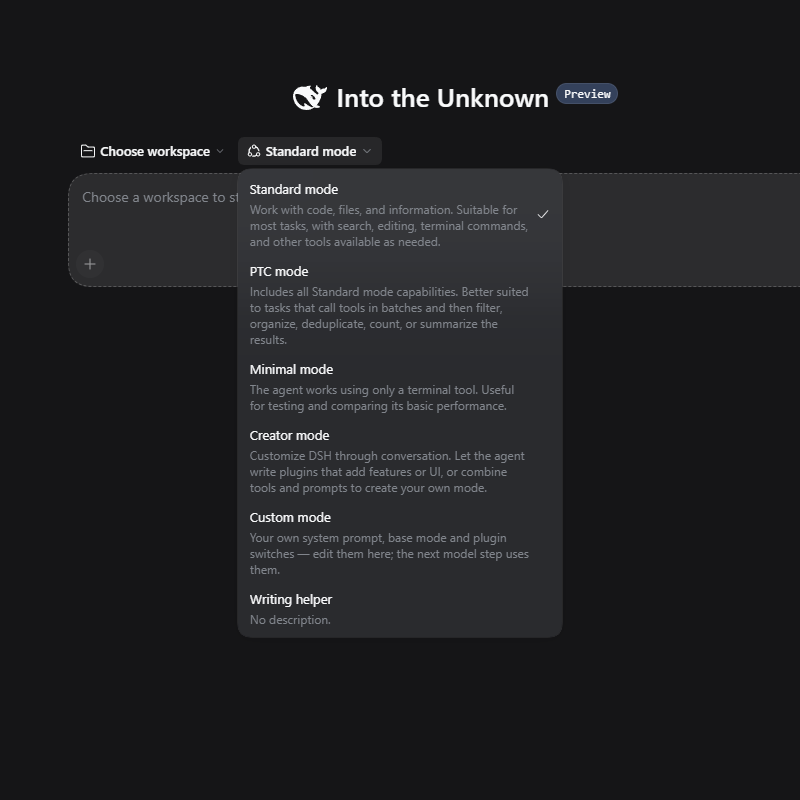
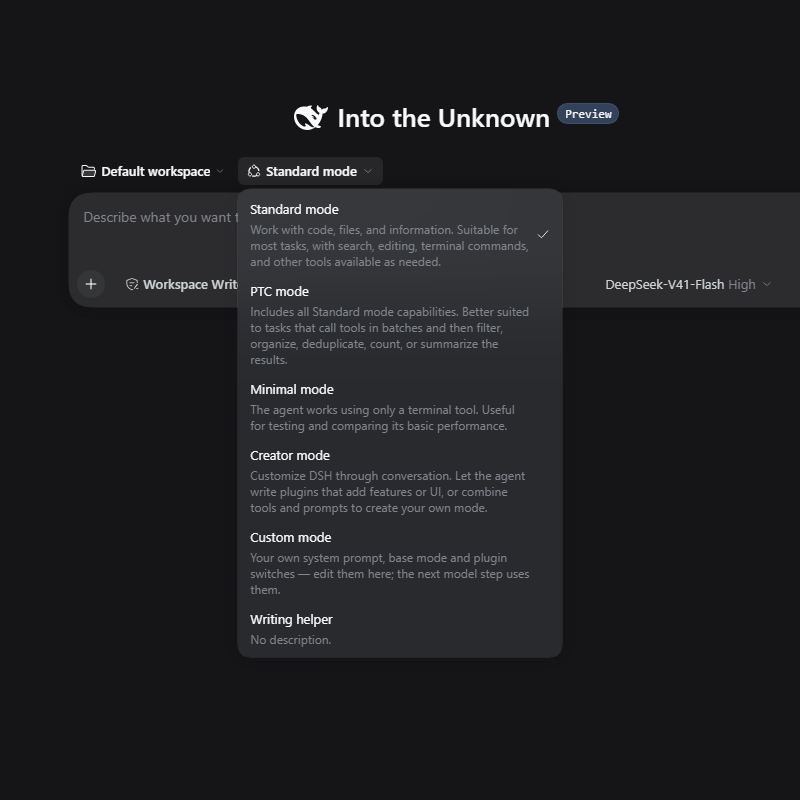
feat: 重画头图并按 800x800 重拍示例图
头图不再写版本号。五张示例图在真实 dsh 页面上重拍，README 用居中的 2x2 加一张独立视图。

Changed region(s): [[0.0938, 0.0938, 1.0, 0.8125], [0.75, 0.3438, 0.9375, 0.375], [0.0938, 0.3438, 0.125, 0.375]]

diff --git a/docs/images/header.html b/docs/images/header.html
@@ -1,55 +1,110 @@
-<!doctype html><html><head><meta charset="utf-8"><style>
-  * { margin:0; padding:0; box-sizing:border-box; }
-  html, body { width:1280px; height:640px; }
-  body { background:#0a0e14; font-family:"JetBrains Mono","Cascadia Mono",Consolas,"DejaVu Sans Mono",monospace;
-         color:#e6edf3; position:relative; overflow:hidden; }
-  .grid { position:absolute; inset:0;
-    background-image:linear-gradient(rgba(255,255,255,.035) 1px,transparent 1px),
-                     linear-gradient(90deg,rgba(255,255,255,.035) 1px,transparent 1px);
-    background-size:48px 48px; }
-  .glow { position:absolute; width:1100px; height:1100px; left:-300px; top:-560px;
-    background:radial-gradient(circle,rgba(77,107,254,.22) 0%,rgba(77,107,254,0) 62%); }
-  .glow2 { position:absolute; width:900px; height:900px; right:-320px; bottom:-520px;
-    background:radial-gradient(circle,rgba(0,229,255,.14) 0%,rgba(0,229,255,0) 62%); }
-  .wrap { position:relative; height:100%; padding:64px 80px 56px; display:flex; flex-direction:column; }
-  .title { font-size:92px; font-weight:700; letter-spacing:-2.5px; line-height:1; }
-  .title .dash { color:#4d6bfe; }
-  .cursor { display:inline-block; width:34px; height:11px; background:#4d6bfe; margin-left:14px; vertical-align:12px; }
-  .sub { color:#9aa4b2; font-size:23px; line-height:1.55; margin-top:22px; max-width:1010px; }
-  .sub b { color:#e6edf3; }
-  .strip { display:flex; gap:14px; margin-top:44px; }
-  .row { display:flex; align-items:center; gap:14px; border:1px solid #1c2532; background:#0c1119;
-         border-radius:11px; padding:15px 20px; font-size:17px; color:#8b95a3; }
-  .row .on { color:#e6edf3; }
-  .sw { width:42px; height:23px; border-radius:999px; background:#212a36; position:relative; flex:none; }
-  .sw.on { background:#1f6feb; }
-  .sw::after { content:""; position:absolute; top:3px; left:3px; width:17px; height:17px; border-radius:50%; background:#0a0e14; }
-  .sw.on::after { left:22px; background:#eaf2ff; }
-  .foot { margin-top:auto; display:flex; align-items:center; justify-content:space-between; gap:36px; }
-  .chips { display:flex; gap:13px; }
-  .chip { border:1px solid #222b38; background:#0d131c; color:#9aa4b2; font-size:16px; padding:9px 15px; border-radius:8px; white-space:nowrap; }
-  .chip b { color:#e6edf3; font-weight:600; }
-  .term { border:1px solid #1c2532; background:#0c1119; border-radius:11px; padding:16px 20px; font-size:17px; color:#9aa4b2; white-space:nowrap; }
-  .term .p { color:#4d6bfe; } .term .c { color:#e6edf3; }
-</style></head><body>
-  <div class="grid"></div><div class="glow"></div><div class="glow2"></div>
-  <div class="wrap">
-    <div class="title">dsh<span class="dash">-</span>custom<span class="dash">-</span>mode<span class="cursor"></span></div>
-    <div class="sub">A settings page for <b>dsh</b> agent modes — an editable system prompt that applies on the next
-    model step, per-row plugin switches, several assistants side by side.</div>
-    <div class="strip">
-      <div class="row"><span class="sw on"></span><span class="on">identity (system prompt)</span></div>
-      <div class="row"><span class="sw on"></span><span class="on">custom_prompt tool</span></div>
-      <div class="row"><span class="sw"></span>shell (pwsh)</div>
+<!doctype html>
+<html>
+<head>
+<meta charset="utf-8">
+<style>
+  * { margin: 0; padding: 0; box-sizing: border-box; }
+  html, body { width: 1280px; height: 640px; overflow: hidden; }
+  body {
+    background: #070b12;
+    color: #e7edf5;
+    font-family: "Segoe UI", "PingFang SC", "Microsoft YaHei", sans-serif;
+  }
+  .stage { position: relative; width: 1280px; height: 640px; }
+  .grid {
+    position: absolute; inset: 0;
+    background-image:
+      linear-gradient(rgba(255,255,255,.028) 1px, transparent 1px),
+      linear-gradient(90deg, rgba(255,255,255,.028) 1px, transparent 1px);
+    background-size: 64px 64px;
+    mask-image: radial-gradient(ellipse at 30% 50%, #000 20%, transparent 72%);
+  }
+  .wash {
+    position: absolute; width: 720px; height: 720px; left: -180px; top: -220px;
+    background: radial-gradient(circle, rgba(77,107,254,.20) 0%, rgba(77,107,254,0) 68%);
+  }
+  .rule {
+    position: absolute; left: 72px; top: 88px; bottom: 88px; width: 1px;
+    background: linear-gradient(rgba(77,107,254,0), rgba(77,107,254,.85), rgba(77,107,254,0));
+  }
+  .copy {
+    position: absolute; left: 104px; top: 0; bottom: 0; width: 620px;
+    display: flex; flex-direction: column; justify-content: center;
+  }
+  .kicker {
+    font-size: 13px; letter-spacing: .22em; text-transform: uppercase;
+    color: #8ea0c8; font-weight: 600;
+  }
+  h1 {
+    margin-top: 18px; font-size: 64px; line-height: .95; font-weight: 650;
+    letter-spacing: -1.8px;
+  }
+  h1 span { color: #4d6bfe; }
+  .lead {
+    margin-top: 22px; max-width: 520px;
+    font-size: 20px; line-height: 1.45; color: #b7c0ce; font-weight: 400;
+  }
+  .lead b { color: #f2f5f8; font-weight: 600; }
+  .cmd {
+    margin-top: 32px; align-self: flex-start;
+    border: 1px solid #243044; background: #0c121c;
+    border-radius: 10px; padding: 12px 16px;
+    font-family: "Cascadia Mono", Consolas, monospace;
+    font-size: 15px; color: #d5dbe3;
+  }
+  .cmd i { color: #4d6bfe; font-style: normal; margin-right: 8px; }
+  .card {
+    position: absolute; right: 72px; top: 78px; width: 420px; height: 484px;
+    border: 1px solid #2a3548; border-radius: 16px;
+    background: #0e141e;
+    box-shadow: 0 24px 60px rgba(0,0,0,.35);
+    padding: 22px 22px 18px;
+    display: flex; flex-direction: column;
+  }
+  .card h2 { font-size: 13px; font-weight: 600; letter-spacing: .04em; color: #9aa6b8; }
+  .prompt {
+    margin-top: 12px; flex: 1;
+    border: 1px solid #243044; border-radius: 10px;
+    background: #0a1018; padding: 14px 14px;
+    font-family: "Cascadia Mono", Consolas, monospace;
+    font-size: 13px; line-height: 1.55; color: #d7dee8;
+  }
+  .prompt em { color: #7f8da3; font-style: normal; }
+  .rows { margin-top: 14px; display: flex; flex-direction: column; gap: 8px; }
+  .row {
+    display: flex; align-items: center; justify-content: space-between;
+    height: 36px; padding: 0 2px; border-bottom: 1px solid #1c2636;
+    font-size: 13px; color: #d5dce6;
+  }
+  .sw { width: 36px; height: 20px; border-radius: 999px; background: #4d6bfe; position: relative; }
+  .sw::after {
+    content: ""; position: absolute; top: 2px; left: 18px;
+    width: 16px; height: 16px; border-radius: 50%; background: #f4f7fb;
+  }
+  .sw.off { background: #2a3344; }
+  .sw.off::after { left: 2px; background: #9aa6b8; }
+</style>
+</head>
+<body>
+  <div class="stage">
+    <div class="grid"></div>
+    <div class="wash"></div>
+    <div class="rule"></div>
+    <div class="copy">
+      <div class="kicker">DeepSeek Harness</div>
+      <h1>dsh<span>-</span>custom<span>-</span>mode</h1>
+      <p class="lead">A settings page for agent modes. Edit the <b>system prompt</b>. It applies on the next step. Keep several assistants side by side.</p>
+      <div class="cmd"><i>$</i>dsh plugin add dsh-custom-mode</div>
     </div>
-    <div class="foot">
-      <div class="chips">
-        <div class="chip">dsh <b>&ge; 0.1.5-rc.2</b></div>
-        <div class="chip">npm <b>latest</b></div>
-        <div class="chip"><b>MIT</b></div>
-        <div class="chip">Web <b>settings page</b></div>
+    <aside class="card">
+      <h2>System prompt</h2>
+      <div class="prompt">You are a careful coding agent.<br><em>{{model}}</em> · <em>{{cwd}}</em><br><br>Follow the project instructions.<br>Ask before rewriting the prompt.</div>
+      <div class="rows">
+        <div class="row">Identity <span class="sw"></span></div>
+        <div class="row">File access <span class="sw"></span></div>
+        <div class="row">Shell <span class="sw off"></span></div>
       </div>
-      <div class="term"><span class="p">$</span> <span class="c">dsh plugin add dsh-custom-mode</span></div>
-    </div>
+    </aside>
   </div>
-</body></html>
+</body>
+</html>

diff --git a/README.zh.md b/README.zh.md
@@ -31,22 +31,25 @@ base mode / plugin switches / multi-assistant / multi-persona。
 
 官方四个模式（`standard` / `ptc` / `minimal` / `cordis`）不受影响。
 
-|  |  |
-| --- | --- |
-| ![模式名称与基础模式](https://raw.githubusercontent.com/BOWLUNA/dsh-custom-mode/main/docs/images/01-mode-switch.png) | ![插件开关](https://raw.githubusercontent.com/BOWLUNA/dsh-custom-mode/main/docs/images/02-plugin-switches.png) |
-| ![系统提示词](https://raw.githubusercontent.com/BOWLUNA/dsh-custom-mode/main/docs/images/03-system-prompt.png) | ![模式选择器](https://raw.githubusercontent.com/BOWLUNA/dsh-custom-mode/main/docs/images/04-preset-picker.png) |
+<p align="center">
+<img src="https://raw.githubusercontent.com/BOWLUNA/dsh-custom-mode/main/docs/images/01-mode-switch.png" width="360" alt="基础模式与插件开关">
+<img src="https://raw.githubusercontent.com/BOWLUNA/dsh-custom-mode/main/docs/images/02-plugin-switches.png" width="360" alt="插件开关"><br>
+<img src="https://raw.githubusercontent.com/BOWLUNA/dsh-custom-mode/main/docs/images/03-system-prompt.png" width="360" alt="系统提示词">
+<img src="https://raw.githubusercontent.com/BOWLUNA/dsh-custom-mode/main/docs/images/04-preset-picker.png" width="360" alt="模式选择器">
+</p>
 
-多助手管理器（裁到它自己那一段）。五张图都是英文、**统一 800x800**，由一个**没有会话记录的**一次性
-`DSH_HOME` 拍出，脚本是 `tools/screenshots/shoot-fresh.mjs`（渲染后的页面由 `tools/browser-verify.mjs` 校验）：
+<p align="center">
+<img src="https://raw.githubusercontent.com/BOWLUNA/dsh-custom-mode/main/docs/images/05-assistant-manager.png" width="360" alt="助手">
+</p>
 
-![助手管理器](https://raw.githubusercontent.com/BOWLUNA/dsh-custom-mode/main/docs/images/05-assistant-manager.png)
+上面四张是一组 2×2。助手管理器单独居中。五张都是英文，文件都是 800×800，用一个没有会话记录的一次性 `DSH_HOME` 拍出。
 
 ## 安装
 
 一条命令装完——设置页插件，以及它在首次激活时自动播种的 preset：
 
 ```sh
-dsh plugin --profile web add dsh-custom-mode@1.12.1   # 钉版本才能确定拿到这一版
+dsh plugin --profile web add dsh-custom-mode@1.12.2   # 钉版本才能确定拿到这一版
 # 不带版本号会受 pnpm 的发布冷却期影响（`minimumReleaseAge`，默认一天）：发布后数小时内按名安装
 # 可能**静默装到旧版** —— 实测 1.3.0 发布 38 分钟后按名安装装到了 1.0.3。用 profile 里的
 # `npm ls dsh-custom-mode` 核对实际装到的版本，或像上面那样钉版本。
@@ -65,7 +68,7 @@ dsh `0.1.6-alpha.2` 起有插件管理页：**侧边栏 → 插件 → 添加插
 
 | 输入 | 填什么 | 说明 |
 | --- | --- | --- |
-| **包名** | `dsh-custom-mode` | 受 pnpm 发布冷却期影响，可能装到旧版。要这一版请钉 `@1.12.1` |
+| **包名** | `dsh-custom-mode` | 受 pnpm 发布冷却期影响，可能装到旧版。要这一版请钉 `@1.12.2` |
 | **GitHub 仓库地址** | `https://github.com/BOWLUNA/dsh-custom-mode` | 指向**仓库根**即可 |
 | **本地插件目录** | `<你 clone 的路径>` | 就是仓库根 —— 仓库根**本身**就是发布包 |
 
@@ -297,7 +300,7 @@ MIT
 
 ```sh
 # 钉版本的写法：要哪版就是哪版
-dsh plugin --profile web add dsh-custom-mode@1.12.1
+dsh plugin --profile web add dsh-custom-mode@1.12.2
 # 然后重启为该 profile 提供服务的 DSH 进程
 ```
 

diff --git a/README.md b/README.md
@@ -37,16 +37,18 @@ range, but they no longer get a CI leg of their own.
 
 The four official modes (`standard` / `ptc` / `minimal` / `cordis`) are untouched.
 
-|  |  |
-| --- | --- |
-| ![Mode name and base mode](https://raw.githubusercontent.com/BOWLUNA/dsh-custom-mode/main/docs/images/01-mode-switch.png) | ![Plugin switches](https://raw.githubusercontent.com/BOWLUNA/dsh-custom-mode/main/docs/images/02-plugin-switches.png) |
-| ![System prompt](https://raw.githubusercontent.com/BOWLUNA/dsh-custom-mode/main/docs/images/03-system-prompt.png) | ![Mode picker](https://raw.githubusercontent.com/BOWLUNA/dsh-custom-mode/main/docs/images/04-preset-picker.png) |
+<p align="center">
+<img src="https://raw.githubusercontent.com/BOWLUNA/dsh-custom-mode/main/docs/images/01-mode-switch.png" width="360" alt="Base mode and plugin switches">
+<img src="https://raw.githubusercontent.com/BOWLUNA/dsh-custom-mode/main/docs/images/02-plugin-switches.png" width="360" alt="Plugin switches"><br>
+<img src="https://raw.githubusercontent.com/BOWLUNA/dsh-custom-mode/main/docs/images/03-system-prompt.png" width="360" alt="System prompt">
+<img src="https://raw.githubusercontent.com/BOWLUNA/dsh-custom-mode/main/docs/images/04-preset-picker.png" width="360" alt="Mode picker">
+</p>
 
-The assistant manager, cropped to its own section. All five images are English, **all exactly 800x800**, and
-shot on a throwaway `DSH_HOME` with no sessions by `tools/screenshots/shoot-fresh.mjs` (the rendered page
-is what `tools/browser-verify.mjs` checks):
+<p align="center">
+<img src="https://raw.githubusercontent.com/BOWLUNA/dsh-custom-mode/main/docs/images/05-assistant-manager.png" width="360" alt="Assistants">
+</p>
 
-![Assistant manager](https://raw.githubusercontent.com/BOWLUNA/dsh-custom-mode/main/docs/images/05-assistant-manager.png)
+The four views above are one 2×2 set. The assistant manager sits on its own, centered. Every file is English and exactly 800×800, shot on a throwaway `DSH_HOME` with no sessions.
 
 ## Install
 
@@ -54,7 +56,7 @@ One command installs everything — the settings-page plugin, and the preset it 
 activation:
 
 ```sh
-dsh plugin --profile web add dsh-custom-mode@1.12.1   # pin the version to get this one for sure
+dsh plugin --profile web add dsh-custom-mode@1.12.2   # pin the version to get this one for sure
 # A bare `add dsh-custom-mode` is subject to pnpm's release cooldown (`minimumReleaseAge`, 1 day by
 # default): for hours after a release it can silently install an OLDER version — measured: a bare
 # install 38 minutes after 1.3.0 shipped landed on 1.0.3. Check what you got with `npm ls
@@ -394,7 +396,7 @@ installing again — your data is not touched:
 
 ```sh
 # the pinned form: what you ask for is what you get
-dsh plugin --profile web add dsh-custom-mode@1.12.1
+dsh plugin --profile web add dsh-custom-mode@1.12.2
 # then restart the DSH process that serves the web profile
 ```
 

diff --git a/SECURITY.md b/SECURITY.md
@@ -20,7 +20,7 @@ longer encodes it. Development and verification cover the rows below, newest fir
 
 | Plugin version | DSH version | Status |
 | --- | --- | --- |
-| `1.12.1` (current release) | `0.2.0-rc.2` (npm `latest` **and** `next`), the newest preview `0.2.1-alpha.1` (npm `alpha`) **and** the previous stable `0.1.7-rc.2` | **Supported** — the declared range is `>=0.1.5-rc.2 <0.2.0-0 \|\| >=0.1.6-alpha.1 <0.2.0-0 \|\| >=0.1.7-alpha.1 <0.2.0-0 \|\| >=0.2.0-0 <0.3.0-0 \|\| >=0.2.1-alpha.1 <0.3.0-0`, and CI installs each of the three lines and runs the whole suite against it (the render gate runs on `0.2.0-rc.2`). The official desktop app is covered: it is version-locked to dsh and currently ships `0.2.0-rc.2`. Since dsh 0.2.0 an out-of-range plugin is **refused at install time**, so this range is enforcement rather than a warning |
+| `1.12.2` (current release) | `0.2.0-rc.2` (npm `latest` **and** `next`), the newest preview `0.2.1-alpha.1` (npm `alpha`) **and** the previous stable `0.1.7-rc.2` | **Supported** — the declared range is `>=0.1.5-rc.2 <0.2.0-0 \|\| >=0.1.6-alpha.1 <0.2.0-0 \|\| >=0.1.7-alpha.1 <0.2.0-0 \|\| >=0.2.0-0 <0.3.0-0 \|\| >=0.2.1-alpha.1 <0.3.0-0`, and CI installs each of the three lines and runs the whole suite against it (the render gate runs on `0.2.0-rc.2`). The official desktop app is covered: it is version-locked to dsh and currently ships `0.2.0-rc.2`. Since dsh 0.2.0 an out-of-range plugin is **refused at install time**, so this range is enforcement rather than a warning |
 | `1.9.19` | the same range | Supported (superseded) |
 | `1.9.17` | the same | Supported (superseded) |
 | `1.9.16` | the same | Supported (superseded) |

diff --git a/docs/images/README.md b/docs/images/README.md
@@ -12,9 +12,8 @@ is what "too big" looks like on GitHub).
 05-assistant-manager.png  800x800   The assistant section, dropdown CLOSED, two assistants
 ```
 
-`01` is where the fifth base mode is visible: the pill row reads **Standard / PTC / Minimal / Cordis /
-Custom**. Before 1.11.0 there were four pills, and `04` listed four modes — the two images that carry the
-feature are these two, so re-shoot them whenever the base-mode set changes.
+`01` is where the fifth base mode is visible: the pill row reads **Standard / PTC / Minimal / Creator /
+All shipped rows**. Re-shoot `01` and `04` whenever that set changes.
 
 `04` is the one image that is **not** cropped with the shared `PANEL` box. The settings dialog is the panel
 itself, so a fixed box hugs it; the mode picker instead hangs off the **vertically centred** composer, and
@@ -65,6 +64,7 @@ the same files, which is why they are not relative paths), so **renaming one mea
 ![Mode name and base mode](https://raw.githubusercontent.com/BOWLUNA/dsh-custom-mode/main/docs/images/01-mode-switch.png)
 ```
 
-`header.png` is the repository banner (dark, monospace) - it is rendered from `header.html` with headless
-Chrome, and the same 1600x420 artwork works as the GitHub **social preview** (upload it under
-Settings -> Social preview, which the API cannot set).
+`header.png` is the repository banner, 1280×640, rendered from `header.html` with headless Chrome.
+`header@2x.png` is the same artwork at 2560×1280. The banner does not name a plugin version.
+`social-preview.png` is the same 1280×640 frame for GitHub's social preview (Settings → Social preview;
+the API cannot set it).

diff --git a/SECURITY.zh.md b/SECURITY.zh.md
@@ -17,7 +17,7 @@
 
 | 插件版本 | DSH 版本 | 状态 |
 | --- | --- | --- |
-| `1.12.1`（当前发布版本） | `0.2.0-rc.2`（npm `latest` **与** `next`）、最新预览版 `0.2.1-alpha.1`（npm `alpha`）**与**上一个正式版 `0.1.7-rc.2` | **支持** —— 声明范围是 `>=0.1.5-rc.2 <0.2.0-0 \|\| >=0.1.6-alpha.1 <0.2.0-0 \|\| >=0.1.7-alpha.1 <0.2.0-0 \|\| >=0.2.0-0 <0.3.0-0 \|\| >=0.2.1-alpha.1 <0.3.0-0`，CI 对三条线各安装一次并各跑一遍完整测试（渲染闸门跑 `0.2.0-rc.2`）。官方桌面端也在覆盖范围内：它与 dsh 同版本号，当前即为 `0.2.0-rc.2`。注意 dsh 0.2.0 起"范围不覆盖"是**安装期直接拒绝**，所以这个范围是强制，不是警告 |
+| `1.12.2`（当前发布版本） | `0.2.0-rc.2`（npm `latest` **与** `next`）、最新预览版 `0.2.1-alpha.1`（npm `alpha`）**与**上一个正式版 `0.1.7-rc.2` | **支持** —— 声明范围是 `>=0.1.5-rc.2 <0.2.0-0 \|\| >=0.1.6-alpha.1 <0.2.0-0 \|\| >=0.1.7-alpha.1 <0.2.0-0 \|\| >=0.2.0-0 <0.3.0-0 \|\| >=0.2.1-alpha.1 <0.3.0-0`，CI 对三条线各安装一次并各跑一遍完整测试（渲染闸门跑 `0.2.0-rc.2`）。官方桌面端也在覆盖范围内：它与 dsh 同版本号，当前即为 `0.2.0-rc.2`。注意 dsh 0.2.0 起"范围不覆盖"是**安装期直接拒绝**，所以这个范围是强制，不是警告 |
 | `1.9.19` | 同上 | 支持（已被取代） |
 | `1.9.17` | 同上 | 支持（已被取代） |
 | `1.9.16` | 同上 | 支持（已被取代） |

diff --git a/CHANGELOG.md b/CHANGELOG.md
@@ -8,6 +8,13 @@ CI asserts the DSH version it actually installs and tests falls inside them — 
 section of the README. Entries from `0.1.6-alpha.*` and earlier follow the old convention (the version
 mirrored the DSH release) and are kept as history.
 
+## [1.12.2]
+
+### Storefront
+
+- Header redrawn at 1280×640. It names the product and the install command, and it does not carry a plugin version.
+- The five example images were reshot on a throwaway dsh `0.2.0-rc.2` home. Each file is 800×800. The README shows four of them as a centered 2×2, and the assistant view on its own.
+
 ## [1.12.1]
 
 ### Storefront and host alignment

diff --git a/CHANGELOG.zh.md b/CHANGELOG.zh.md
@@ -6,6 +6,13 @@
 `engines.dsh` 与 `@deepseek-ai/dsh` peer 范围声明，CI 断言它实际安装并测试的 dsh 版本落在这些范围内
 —— 见 README「版本」。`0.1.6-alpha.*` 及更早的条目遵循旧约定（版本号镜像 DSH 版本），作为历史保留。
 
+## [1.12.2]
+
+### 仓库门面
+
+- 头图按 1280×640 重画。画面只有产品名和安装命令，不写插件版本。
+- 五张示例图在一次性的 dsh `0.2.0-rc.2` 环境里重拍，每张 800×800。README 里四张排成居中的 2×2，助手视图单独居中。
+
 ## [1.12.1]
 
 ### 门面与宿主对齐
